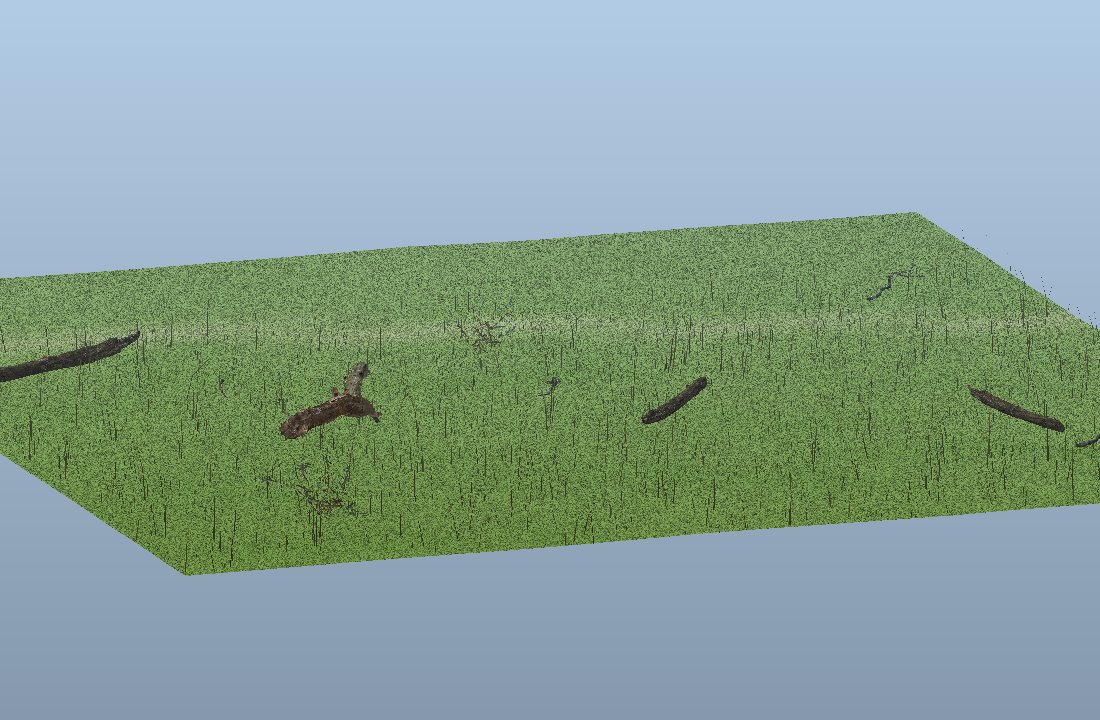
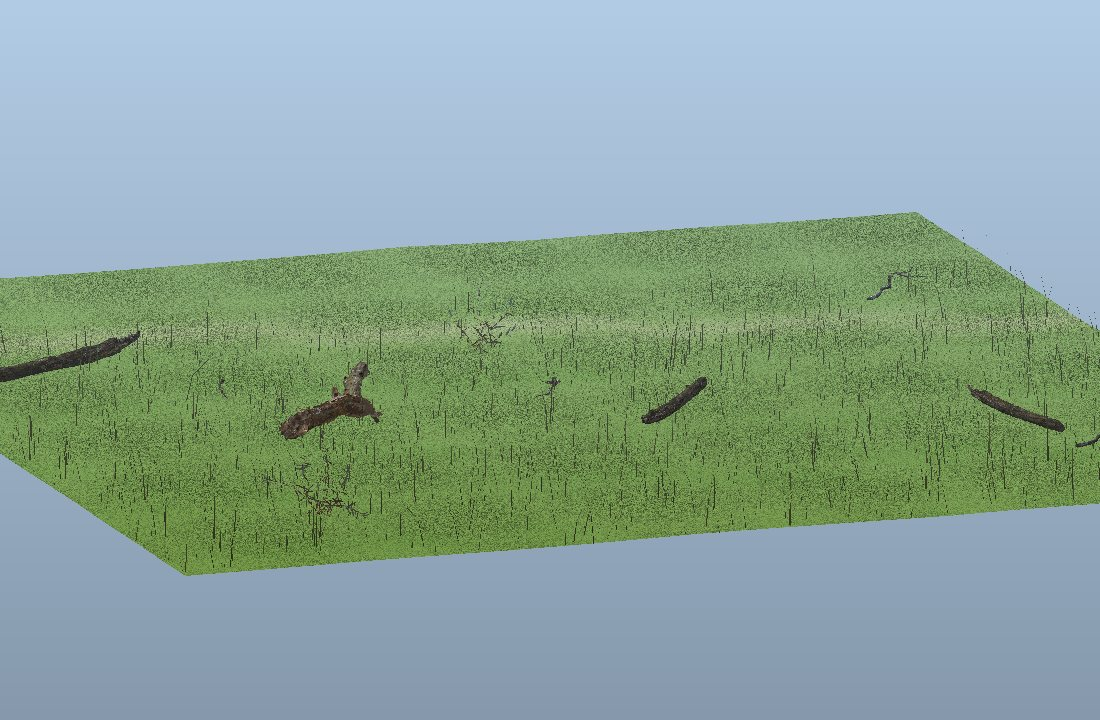
Lattice detiling (after Terrain3D) and leaf flutter (after ez-tree); viewer fixes
Lattice detiling, TECHNIQUES §20. Over a lattice of spacing L = 1.5 tiles,
each node c gets
  h_c = frac(sin(c · (127.1, 311.7)) · 43758.5453),
  θ_c = 2π h_c,
  o_c = (h_c, frac(7.13 h_c)).
A texel at p samples s_c = T(R(θ_c) p + o_c) once per surrounding node and
blends the four samples with
  W_c = (b_c + s_c)^8 · b_c,
  T(p) = Σ W_c s_c / Σ W_c   (b_c = bilinear weight).
It is continuous across lattice lines and has no visible 2 m grid. The
viewer runs it as GLSL (textureGrad) and the preview renderer uses
textures.detile_sample.

Leaf flutter, viewer addWind:
  w_tip = clamp(1 − v, 0, 1)
  f(t)  = 0.5 sin(4t+φ) + 0.3 sin(8t+1.3φ) + 0.2 sin(20t+1.5φ)
  Δp    = 0.05 m · w_tip · f(t) · n̂
The twig end (v = 1) never moves.

Viewer fixes:
- The drop overlay never hid: display:grid overrode [hidden].
- The opening camera started inside a corner tree; it now frames the tile.

New scripts/viewer_shot.py takes a headless-Chromium screenshot and
prints console errors. Gallery adds a viewer screenshot.

Claude-Session: https://claude.ai/code/session_01W8T2zvuXVw2eBrrYHA5yqx

Changed region(s): [[0.0, 0.275, 1.0, 0.7944]]

diff --git a/viewer/index.html b/viewer/index.html
@@ -31,6 +31,7 @@
   #log h2 { font:600 13px var(--display); color:var(--ink); margin:0 0 6px; }
   #log .ev b { color:var(--accent); font-weight:600; }
   #drop { position:fixed; inset:0; place-items:center; font-size:18px; background:rgba(0,0,0,.5); color:#fff; display:grid; }
+  #drop[hidden] { display:none; }  /* display:grid would otherwise override the hidden attribute */
   #err { position:fixed; left:16px; right:16px; bottom:calc(84px + env(safe-area-inset-bottom, 0px)); color:var(--accent); }
   @media (max-width:640px){ #log{ top:auto; bottom:calc(84px + env(safe-area-inset-bottom, 0px)); max-height:22vh; } }
 </style>
@@ -101,7 +102,14 @@ function addWind(mat) {
       `#include <begin_vertex>
        float h = max(position.y, 0.0);
        float s = sin(uWind * 1.7 + position.x * 0.35 + position.z * 0.27) * 0.6 + sin(uWind * 3.1 + position.x) * 0.25;
-       transformed.x += s * 0.012 * h; transformed.z += s * 0.008 * h;`);
+       transformed.x += s * 0.012 * h; transformed.z += s * 0.008 * h;
+       #ifdef USE_UV
+         // leaf flutter (after ez-tree): card tips (low v) move, the twig end (v ≈ 1) stays put
+         float tipw = clamp(1.0 - uv.y, 0.0, 1.0);
+         float ph = 6.2831853 * fract(position.x * 0.37 + position.z * 0.71);
+         float fl = 0.5 * sin(uWind * 4.0 + ph) + 0.3 * sin(uWind * 8.0 + 1.3 * ph) + 0.2 * sin(uWind * 20.0 + 1.5 * ph);
+         transformed += objectNormal * (0.05 * tipw * fl);
+       #endif`);
   };
   mat.needsUpdate = true;
 }
@@ -125,12 +133,33 @@ function addSplat(m, parser) {
       sh.vertexShader = 'attribute vec4 _splat;\nvarying vec4 vSplat;\nvarying vec2 vGroundUV;\nuniform float uSplatTile;\n' +
         sh.vertexShader.replace('#include <begin_vertex>', `#include <begin_vertex>
           vSplat = _splat; vGroundUV = (modelMatrix * vec4(position, 1.0)).xz / uSplatTile;`);
-      sh.fragmentShader = 'uniform sampler2D uSplat0, uSplat1, uSplat2, uSplat3;\nuniform float uSplatK;\nvarying vec4 vSplat;\nvarying vec2 vGroundUV;\n' +
+      // lattice detiling (TECHNIQUES §20): every lattice node rotates and shifts the texture; the four nodes
+      // around a pixel are height-blended, so the 2 m repeat disappears without visible seams
+      const detile = `
+        vec4 detile(sampler2D t, vec2 p) {
+          vec2 q = p / 1.5; vec2 c0 = floor(q); vec2 f = fract(q);
+          vec2 dx = dFdx(p), dy = dFdy(p);
+          vec4 acc = vec4(0.0); float ws = 0.0;
+          for (int k = 0; k < 4; k++) {
+            vec2 o = vec2(float(k == 1 || k == 3), float(k >= 2));
+            vec2 c = c0 + o;
+            float h = fract(sin(dot(c, vec2(127.1, 311.7))) * 43758.5453);
+            float a = h * 6.2831853;
+            mat2 R = mat2(cos(a), sin(a), -sin(a), cos(a));
+            vec2 uv = R * p + vec2(h, fract(h * 7.13));
+            vec4 s = textureGrad(t, uv, R * dx, R * dy);
+            vec2 bb = mix(1.0 - f, f, o); float b = bb.x * bb.y;
+            float w = pow(b + s.r, 8.0) * b;
+            acc += s * w; ws += w;
+          }
+          return acc / max(ws, 1e-5);
+        }`;
+      sh.fragmentShader = 'uniform sampler2D uSplat0, uSplat1, uSplat2, uSplat3;\nuniform float uSplatK;\nvarying vec4 vSplat;\nvarying vec2 vGroundUV;\n' + detile + '\n' +
         sh.fragmentShader.replace('#include <map_fragment>', `
-          vec4 t0 = mapTexelToLinear(texture2D(uSplat0, vGroundUV));
-          vec4 t1 = mapTexelToLinear(texture2D(uSplat1, vGroundUV));
-          vec4 t2 = mapTexelToLinear(texture2D(uSplat2, vGroundUV));
-          vec4 t3 = mapTexelToLinear(texture2D(uSplat3, vGroundUV));
+          vec4 t0 = mapTexelToLinear(detile(uSplat0, vGroundUV));
+          vec4 t1 = mapTexelToLinear(detile(uSplat1, vGroundUV));
+          vec4 t2 = mapTexelToLinear(detile(uSplat2, vGroundUV));
+          vec4 t3 = mapTexelToLinear(detile(uSplat3, vGroundUV));
           vec4 h = vec4(t0.r, t1.r, t2.r, t3.r);
           vec4 w = pow(max(vSplat + h, vec4(1e-4)), vec4(uSplatK)) * vSplat;
           w /= max(dot(w, vec4(1.0)), 1e-5);
@@ -157,7 +186,7 @@ function onGLTF(g) {
     const c = box.getCenter(new THREE.Vector3());
     const size = box.getSize(new THREE.Vector3());
     controls.target.copy(c);
-    camera.position.set(c.x + size.x * 0.55, c.y + size.x * 0.32, c.z + size.z * 0.55);
+    camera.position.set(c.x + size.x * 0.75, c.y + size.x * 0.5, c.z + size.z * 0.75);  // outside the corner trees, ~30° down
     sun.target.position.copy(c);
     const cam = sun.shadow.camera; const r = Math.max(size.x, size.z) * 0.6;
     cam.left = -r; cam.right = r; cam.top = r; cam.bottom = -r; cam.far = 600; cam.updateProjectionMatrix();

diff --git a/scripts/viewer_shot.py b/scripts/viewer_shot.py
@@ -1,0 +1,55 @@
+"""Screenshot the three.js viewer for a scene directory (headless Chromium, software WebGL).
+
+  python3 scripts/viewer_shot.py out/monte-sano out/monte-sano/viewer.png [--wait 25]
+
+Needs the `playwright` package and a Chromium (Claude cloud sessions ship one at /opt/pw-browsers).
+Prints browser console errors so shader compile failures are visible.
+"""
+
+from __future__ import annotations
+
+import argparse
+import functools
+import glob
+import http.server
+import os
+import sys
+import threading
+
+
+def main(argv=None):
+    ap = argparse.ArgumentParser()
+    ap.add_argument("scene_dir")
+    ap.add_argument("out")
+    ap.add_argument("--wait", type=float, default=25.0)
+    ap.add_argument("--size", default="1280x800")
+    a = ap.parse_args(argv)
+    from playwright.sync_api import sync_playwright
+    sys.path.insert(0, os.path.abspath(os.path.join(os.path.dirname(__file__), "..")))
+    from plandscape.__main__ import write_viewer
+    write_viewer(a.scene_dir)  # the scene's copy is stale after any viewer edit
+    handler = functools.partial(http.server.SimpleHTTPRequestHandler, directory=os.path.abspath(a.scene_dir))
+    handler.log_message = lambda *x, **k: None
+    srv = http.server.ThreadingHTTPServer(("127.0.0.1", 0), handler)
+    threading.Thread(target=srv.serve_forever, daemon=True).start()
+    w, h = (int(v) for v in a.size.split("x"))
+    exe = (glob.glob("/opt/pw-browsers/chromium-*/chrome-linux/chrome") or [None])[0]
+    errors = []
+    with sync_playwright() as p:
+        b = p.chromium.launch(executable_path=exe, args=["--use-gl=angle", "--use-angle=swiftshader",
+                                                         "--enable-unsafe-swiftshader", "--ignore-gpu-blocklist"])
+        page = b.new_page(viewport=dict(width=w, height=h))
+        page.on("console", lambda m: errors.append(f"{m.type}: {m.text}") if m.type in ("error", "warning") else None)
+        page.on("pageerror", lambda e: errors.append(f"pageerror: {e}"))
+        page.goto(f"http://127.0.0.1:{srv.server_port}/index.html")
+        page.wait_for_timeout(a.wait * 1000)
+        page.screenshot(path=a.out)
+        b.close()
+    srv.shutdown()
+    for e in errors[:20]:
+        print(e)
+    print("saved", a.out)
+
+
+if __name__ == "__main__":
+    main()

diff --git a/tests/test_textures_models.py b/tests/test_textures_models.py
@@ -349,6 +349,27 @@ class Splat(Base):
         np.testing.assert_allclose(w[0], [1, 0, 0, 0], atol=1e-9)  # zero weight stays zero
         self.assertGreater(w[1, 1], 0.99)  # equal weights: the higher texel wins (k = 8)
 
+    def test_detile_breaks_repetition(self):
+        rgba = (textures.make_rng("t", "detile").random((32, 32, 4)) * 255).astype(np.uint8)
+        rgba[..., 3] = 255
+        tex = textures.Texture.from_rgba("test/noise", rgba)
+        u, v = np.meshgrid(np.linspace(0, 1, 40), np.linspace(0, 1, 40))
+        plain = tex.sample(u, v)
+        self.assertLess(np.abs(plain - tex.sample(u + 3, v + 2)).mean(), 0.01)  # a plain texture repeats every tile
+        a = textures.detile_sample(tex, u, v)
+        np.testing.assert_array_equal(a, textures.detile_sample(tex, u, v))  # deterministic
+        self.assertTrue(((a >= 0) & (a <= 1)).all())
+        b = textures.detile_sample(tex, u + 3, v + 2)
+        self.assertGreater(np.abs(a - b).mean(), 0.05)  # the detiled one does not
+        # continuous: on a smooth texture, a 1 mm step across a lattice line (u = 1.5) makes no seam
+        yy, xx = np.mgrid[0:64, 0:64] / 64
+        g = np.zeros((64, 64, 4), np.uint8)
+        g[..., :3] = (127 + 120 * np.sin(2 * np.pi * xx) * np.cos(2 * np.pi * yy))[..., None]
+        g[..., 3] = 255
+        smooth = textures.Texture.from_rgba("test/smooth", g)
+        d = textures.detile_sample(smooth, np.array([1.4995, 1.5005]), np.array([0.3, 0.3]))
+        self.assertLess(np.abs(d[1] - d[0]).max(), 0.1)
+
     def test_glb_carries_splat(self):
         import json, struct
         P = np.array([[0, 0, 0], [1, 0, 0], [0, 1, 0]], np.float32)

diff --git a/plandscape/__main__.py b/plandscape/__main__.py
@@ -10,6 +10,14 @@ from .scene.planner import plan
 from .scene.preview import closeup, homestead, map_view, perspective
 
 
+def write_viewer(out):
+    """Copy viewer/index.html into a scene directory (with the doctype and viewport it needs standalone)."""
+    viewer = os.path.join(os.path.dirname(__file__), "..", "viewer", "index.html")
+    if os.path.exists(viewer):
+        with open(viewer) as f, open(os.path.join(out, "index.html"), "w") as g:
+            g.write("<!doctype html>\n<meta charset=\"utf-8\">\n<meta name=\"viewport\" content=\"width=device-width, initial-scale=1, viewport-fit=cover\">\n" + f.read())
+
+
 def main(argv=None):
     ap = argparse.ArgumentParser(prog="plandscape", description=__doc__)
     ap.add_argument("prompt")
@@ -23,10 +31,7 @@ def main(argv=None):
     p = plan(a.prompt, seed=a.seed, size_m=a.size, detail=a.detail)
     print(p.to_json())
     res = compose(p, a.out, sim_seconds=a.sim)
-    viewer = os.path.join(os.path.dirname(__file__), "..", "viewer", "index.html")
-    if os.path.exists(viewer):
-        with open(viewer) as f, open(os.path.join(a.out, "index.html"), "w") as g:
-            g.write("<!doctype html>\n<meta charset=\"utf-8\">\n<meta name=\"viewport\" content=\"width=device-width, initial-scale=1, viewport-fit=cover\">\n" + f.read())
+    write_viewer(a.out)
     if not a.no_preview:
         map_view(res, os.path.join(a.out, "map.png"))
         perspective(res, os.path.join(a.out, "preview.png"))

diff --git a/plandscape/textures.py b/plandscape/textures.py
@@ -69,6 +69,30 @@ def height_blend(a, h, k=SPLAT_SHARPNESS):
     return w / np.maximum(w.sum(-1, keepdims=True), 1e-9)
 
 
+def detile_sample(tex, p_u, p_v, lattice=1.5, k=8.0):
+    """Lattice detiling (TECHNIQUES §20), the viewer's GLSL `detile` in numpy: each lattice node c has a
+    hashed rotation θ_c = 2π h_c and offset (h_c, frac(7.13 h_c)); the four nodes around a texel are blended
+    with W = (b + s)^k · b (b = bilinear weight, s = the sample's own luminance). Returns (..., 4) in 0..1."""
+    qx, qy = p_u / lattice, p_v / lattice
+    c0x, c0y = np.floor(qx), np.floor(qy)
+    fx, fy = qx - c0x, qy - c0y
+    acc = 0.0
+    ws = 0.0
+    for ox, oy in ((0, 0), (1, 0), (0, 1), (1, 1)):
+        cx, cy = c0x + ox, c0y + oy
+        h = np.mod(np.sin(cx * 127.1 + cy * 311.7) * 43758.5453, 1.0)
+        a = h * 2 * np.pi
+        ca, sa = np.cos(a), np.sin(a)
+        u = ca * p_u - sa * p_v + h
+        v = sa * p_u + ca * p_v + np.mod(h * 7.13, 1.0)
+        s = tex.sample(u, v)
+        b = (fx if ox else 1 - fx) * (fy if oy else 1 - fy)
+        w = np.power(b + s[..., 0], k) * b
+        acc = acc + s * w[..., None]
+        ws = ws + w
+    return acc / np.maximum(ws, 1e-9)[..., None]
+
+
 def leaf_key(species):
     return f"leaf/{LEAF_SET.get(species, DEFAULT_LEAF)}"
 

diff --git a/plandscape/render.py b/plandscape/render.py
@@ -125,12 +125,12 @@ def render(meshes, path, size=(900, 700), azimuth=35.0, elevation=22.0,
         win = inside & (zz < sub)
         t = TID[i]
         if t >= 0 and win.any() and isinstance(texs[t], tuple):  # height-blended ground (TECHNIQUES §13)
-            from .textures import TILE_M, height_blend
+            from .textures import TILE_M, detile_sample, height_blend
             tv = tri[i]
             wx = l1 * P[tv[0], 0] + l2 * P[tv[1], 0] + l3 * P[tv[2], 0]
             wy = l1 * P[tv[0], 1] + l2 * P[tv[1], 1] + l3 * P[tv[2], 1]
             a = (l1[..., None] * WS[tv[0]] + l2[..., None] * WS[tv[1]] + l3[..., None] * WS[tv[2]])[win]
-            s_ = np.stack([tx.sample(wx[win] / TILE_M["ground"], wy[win] / TILE_M["ground"])[..., 0]
+            s_ = np.stack([detile_sample(tx, wx[win] / TILE_M["ground"], wy[win] / TILE_M["ground"])[..., 0]
                            for tx in texs[t]], -1)
             g_ = (height_blend(a, s_) * s_).sum(-1)
             # Gouraud: interpolate vertex colours inside the triangle (keeps the per-triangle light C[i])

diff --git a/HANDOFF.md b/HANDOFF.md
@@ -10,7 +10,7 @@ You are continuing **stick-town**, a Python package (`plandscape`) that turns a 
 
 1. `CLAUDE.md` is loaded automatically. Load the **procedural-landscape** skill (`.claude/skills/procedural-landscape/SKILL.md`) and follow it; section 6 lists every trap already hit.
 2. If `assets_library/**/*.npz` are small text pointer files, run `git lfs pull`. If that fails (LFS quota or network), run `python3 -m plandscape.assets bake --variants 2 --seasons fall summer` to regenerate them; generation is deterministic.
-3. `python3 -m unittest discover -s tests` (20 tests, ~20 s) and `python3 -m plandscape.assets stats`.
+3. `python3 -m unittest discover -s tests` (36 tests, ~25 s) and `python3 -m plandscape.assets stats`.
 4. Make one scene and look at it before changing anything:
    `python3 -m plandscape "Monte Sano hardwood cove with a dogtrot cabin, a creek, two deer, three squirrels and a turkey flock at golden hour in fall" --out out/demo`
    then open `out/demo/preview.png`, `out/demo/closeup.png` and `out/demo/map.png`.
@@ -49,7 +49,7 @@ You are continuing **stick-town**, a Python package (`plandscape`) that turns a 
 ## 3. Next priorities, in order
 
 0. **Read `catalog/notes/`** — eight permissive repos were studied in session 2; each note lists what is queued from it.
-1. **Fidelity near the camera, continued.** Lattice detiling for the ground splat (terrain3d note); LOD tiers (impostors far, meshes near, `detail="cm"` within ~5 m).
+1. **Fidelity near the camera, continued.** Lattice detiling and leaf flutter are done (§20); next: LOD tiers (impostors far, meshes near, `detail="cm"` within ~5 m).
 2. **More imported assets, Southern first.** Search Poly Haven and ambientCG for pine-straw, red-clay, sand and moss textures; look for CC0 photoscans of Southern species' leaves. Only from sites whose licence probe is permissive. Render every variant and check GLB sizes.
 3. **Grow the asset library.** All species × 4 seasons × ≥4 variants at `low` and `med`; all building kinds × 4; behaviour clips from ≥20 scenes. Ask the owner where large binaries should live before going past ~100 MB.
 4. **Animals that walk.** Skeletal gaits matched to speed, head/tail motion for alert and feeding states, multi-hour runs, more species (heron, cardinal, box turtle, raccoon, red-tailed hawk, fire-ant mounds).
@@ -76,3 +76,4 @@ Purpose-keyed seeding · zero-dependency core · 1 cm synthesised near the camer
 - Session 2 pushed with the Claude GitHub app on `jcorky/stick-town`. If pushing fails, ask the owner to reconnect GitHub in claude.ai Settings → Connectors.
 - `jcorky/ace-combat-mods` documents more asset sources (`asset_library.md`), but the game rips (AC7, Assault Horizon), FlightGear jets and osm2city textures are not usable here (rips / GPL).
 - Prompts naming Monte Sano or Huntsville map to the Cumberland Plateau province (the owner lives there; it's the default demo).
+- `python3 scripts/viewer_shot.py out/<scene> out/<scene>/viewer.png` screenshots the three.js viewer in headless Chromium (Playwright, swiftshader WebGL; ~30 s). Use it after any viewer shader change: tests never see GLSL compile errors.

diff --git a/docs/TECHNIQUES.md b/docs/TECHNIQUES.md
@@ -290,3 +290,28 @@ creek = (nature word | family) + regional water word (Branch / Creek / Fork in t
 road = one of *family* Rd, *nature landform* Rd, *church* Church Rd, Old *landform* Rd, *creek word* Rd;
 church = (Pleasant Hill | Mount Zion | New Hope | Shiloh | …) + (Baptist | Methodist | Missionary Baptist | A.M.E. | …);
 homestead = "the *family* place". Names go into `scene.json` and are labelled on `map.png`.
+
+## 20. Lattice detiling and leaf flutter (detiling after Terrain3D, MIT; flutter after ez-tree, MIT)
+`plandscape/textures.py: detile_sample`; `plandscape/render.py`; `viewer/index.html: detile, addWind`
+
+**Detiling.** A ground texture repeated every 2 m shows a grid from any height. Over a lattice of spacing
+$L = 1.5$ tiles, each node $c$ gets a hash, a rotation and an offset
+
+$$h_c = \operatorname{frac}\!\big(\sin(c \cdot (127.1,\ 311.7)) \cdot 43758.5453\big), \qquad \theta_c = 2\pi h_c, \qquad o_c = \big(h_c,\ \operatorname{frac}(7.13\,h_c)\big)$$
+
+and the texel at $p$ (in tiles) samples the texture once per surrounding node, $s_c = T(R(\theta_c)\,p + o_c)$.
+The four samples are mixed with bilinear weights $b_c$ sharpened by the samples' own luminance, like the splat (§13):
+
+$$W_c = (b_c + s_c)^{k}\, b_c, \quad k = 8, \qquad T_\text{detiled}(p) = \frac{\sum_c W_c\, s_c}{\sum_c W_c}.$$
+
+$b_c \to 0$ on the far side of every lattice line, so the result is continuous; the luminance term makes the
+transition follow pebbles and leaf edges instead of a smear. The viewer runs the same function in GLSL with
+`textureGrad` (rotation would otherwise break mip selection); the preview renderer uses the numpy version.
+
+**Leaf flutter.** On top of the existing trunk sway, each leaf card's vertices move along their normal, weighted
+by distance from the twig ($v = 1$ at the attachment, $v = 0$ at the tip):
+
+$$w_\text{tip} = \operatorname{clamp}(1 - v,\ 0,\ 1), \qquad f(t) = 0.5\sin(4t + \phi) + 0.3\sin(8t + 1.3\phi) + 0.2\sin(20t + 1.5\phi),$$
+$$\Delta p = 0.05\ \text{m}\cdot w_\text{tip}\, f(t)\, \hat n,$$
+
+with $\phi = 2\pi\,\operatorname{frac}(0.37x + 0.71z)$ a per-vertex phase from object position. The twig end never moves, so cards stay attached.

diff --git a/CHANGELOG.md b/CHANGELOG.md
@@ -3,6 +3,13 @@
 ## Unreleased
 
 **Added**
+- Lattice detiling of the ground textures (TECHNIQUES §20, after Terrain3D): hashed rotation and offset per lattice node, four corners blended by `(b+s)^8 b`; in the viewer shader and the preview renderer. Leaf flutter in the viewer (after ez-tree): card tips move along their normal, weighted by `1 − v`.
+- `scripts/viewer_shot.py`: headless-Chromium screenshot of the three.js viewer for a scene, printing console errors so shader failures show up in review.
+
+**Fixed**
+- The viewer's drop-a-GLB overlay never hid after a scene loaded (`display:grid` overrode `[hidden]`), covering the scene. The viewer's opening camera now frames the whole tile instead of starting inside a corner tree's crown.
+
+**Added**
 - House siting along the road by a suitability score (flat, dry, a metre above the road, near the creek; after FMG) and invented Southern place names for road, creek, church and homesteads, keyed per scene, in `scene.json` and on `map.png` (TECHNIQUES §19).
 - Rounded crown normals and twig-attached leaf cards (TECHNIQUES §18, after ez-tree): canopies shade as one volume; cards no longer float off the wood. `Mesh.nrm` carries authored normals through transforms, the library and the GLB. tree-0.3.1.
 - Curved grass blades (two segments, quadratic bend, tapering) that are shorter and bent along the path where trampled (TECHNIQUES §17). Scenes 9.7 / 11.1 / 11.4 MB.

diff --git a/.claude/skills/procedural-landscape/SKILL.md b/.claude/skills/procedural-landscape/SKILL.md
@@ -97,6 +97,9 @@ Open `map.png` and `scene.json` and check:
 - When thinning triangles for a quick preview, never thin terrain/buildings; holes make the ground look missing.
 - Dusk lighting in review renders hides form; review in neutral light, view in the scene's real light.
 - Low leaf budgets make broadleaf crowns look like wire; scale leaf cards up to keep cover constant.
+- Tests never compile the viewer's GLSL. After any `viewer/index.html` change run `scripts/viewer_shot.py` and look
+  (it also catches CSS bugs: the drop overlay covered every scene for two sessions). Each `out/<scene>/index.html`
+  is a copy made at generation time, so it goes stale; `viewer_shot` refreshes it via `write_viewer`.
 
 ### Data / licences
 - 6 of 23 licences in the first catalog draft were wrong when probed: terra (grass) is CC BY-NC; proctree, SimpleHydrology and SimpleErosion have no licence file (all rights reserved); Blender add-ons and blosm have no root licence file. Always probe.

diff --git a/catalog/notes/ez-tree.md b/catalog/notes/ez-tree.md
@@ -22,5 +22,5 @@ tube with two private rings (3,801 tubes); low and med bark identical (TWIG_CULL
 ring resampling Δs = clip(8r, 0.3, 1.5) m or > 12° bend, sides 10/8/5/3 (8/6/4/3 looked boxy on live-oak limbs),
 tip taper 0.5 r (0.3 read as thorns in winter), TWIG_CULL 0.03/0.015/0.006/0. Bark verts −55 %, tris −24 %.
 (3) adopted too: rounded normals `normalize(0.65 r̂ + 0.35 s n_face)` (ez-tree adds n_face + (v − origin));
-anchors along the parent→node segment, spread N(0, 0.12 L). Still queued: uv.y-weighted wind in the viewer.
+anchors along the parent→node segment, spread N(0, 0.12 L). uv.y-weighted leaf flutter adopted in the viewer's `addWind` (TECHNIQUES §20).
 **We do better:** arc-length bark V, lobed flare, north moss, crown envelopes, pipe radii, folded cards.

diff --git a/catalog/notes/terrain3d.md b/catalog/notes/terrain3d.md
@@ -16,5 +16,7 @@ Godot terrain plugin. Shaders in `src/shaders/`.
   `1 − shore_mask`, foam `clamp(shore·I·noise·1.5 − h)`.
 
 **Adopted:** height-blend form for our 4-weight splat (TECHNIQUES §13, `textures.height_blend`, viewer `addSplat`).
-**Queued:** lattice detiling (rotate/offset per 2–4 m node, blend 4 corners); macro tint; snapped side projection on
+**Adopted (session 3):** lattice detiling — hashed rotation + offset per 1.5-tile node, four corners blended with the
+height-blend weight `(b+s)^8 b` (TECHNIQUES §20; GLSL `detile` in the viewer, `textures.detile_sample` in numpy).
+**Queued:** macro tint; snapped side projection on
 slopes > 45°; baked depth-tinted water (we know depth on the CPU).
